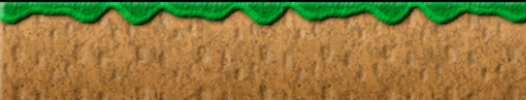
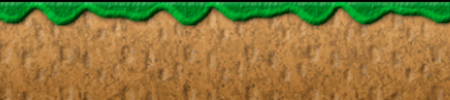
feat: ajustado imagem da grama, alguns ajustes adicionais de z-index e adicionado créditos da trilha sonora

diff --git a/css/style.css b/css/style.css
@@ -53,7 +53,7 @@ body {
   height: 100%;
   background: linear-gradient(to bottom, #1e90ff, #87cefa); /* Gradiente do céu */
   overflow: hidden;
-  z-index: -1;
+  z-index: -10;
 }
 
 .cloud {
@@ -69,10 +69,10 @@ body {
     bottom: 0;
     left: 0;
     width: 100%;
-    height: 15%;
+    height: 100px;
     background: url(../assets/grama-mario.png) repeat-x;
     overflow: hidden;
-    z-index: 1;
+    z-index: -1;
 }
 
 #palpite {

diff --git a/index.html b/index.html
@@ -12,9 +12,9 @@
 
 <body>
 
-    <div id="sky"></div>
+    <div id="sky"></div> <!-- céu -->
 
-    <div id="chao"></div>
+    <div id="chao"></div> <!-- grama -->
 
     <button id="toggle-music">&#x1F50A;</button> <!-- emoji volume -->
 

diff --git a/js/script.js b/js/script.js
@@ -60,7 +60,7 @@ botaonew.disabled = true
 botaonew.style.display = 'none' //esconde o botão - 'none' esconde - 'block' mostra
 
 
-function createCloud() {
+function createCloud() { // função cria nuvens
   const sky = document.getElementById('sky');
   const cloud = document.createElement('div');
   cloud.className = 'cloud';
@@ -74,7 +74,7 @@ function createCloud() {
 
   sky.appendChild(cloud);
 
-  // Animação com JS (ou pode usar CSS Animations)
+  // Animação com JS
   let position = -200;
   const speed = Math.random() * 1 + 0.5; // Velocidades variadas
 

diff --git a/README.md b/README.md
@@ -1,2 +1,10 @@
 # Jogo De Adivinhação
 Jogo de adivinhação feito com html, css e js!
+
+## 🎵 Créditos da Trilha Sonora
+
+A música de fundo utilizada neste jogo:
+
+**"Can't Stop Coming"**, composta por **Azazel**
+
+*   🎧 **Ouça no YouTube:** [Clique aqui](https://www.youtube.com/watch?v=U7qhZAn1_VY)